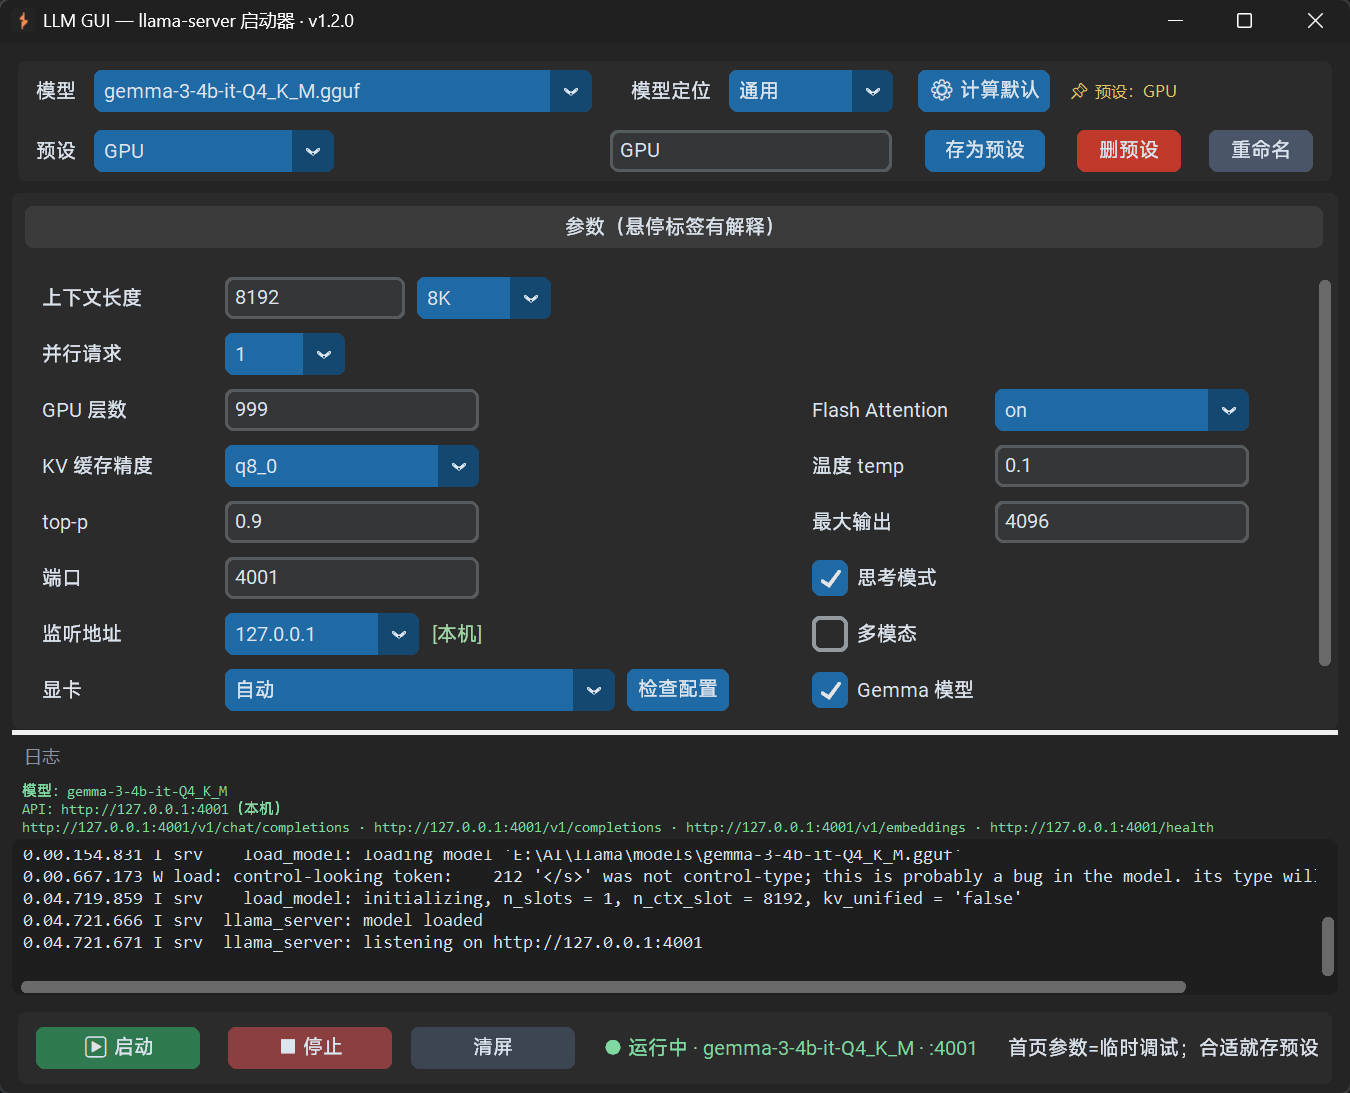
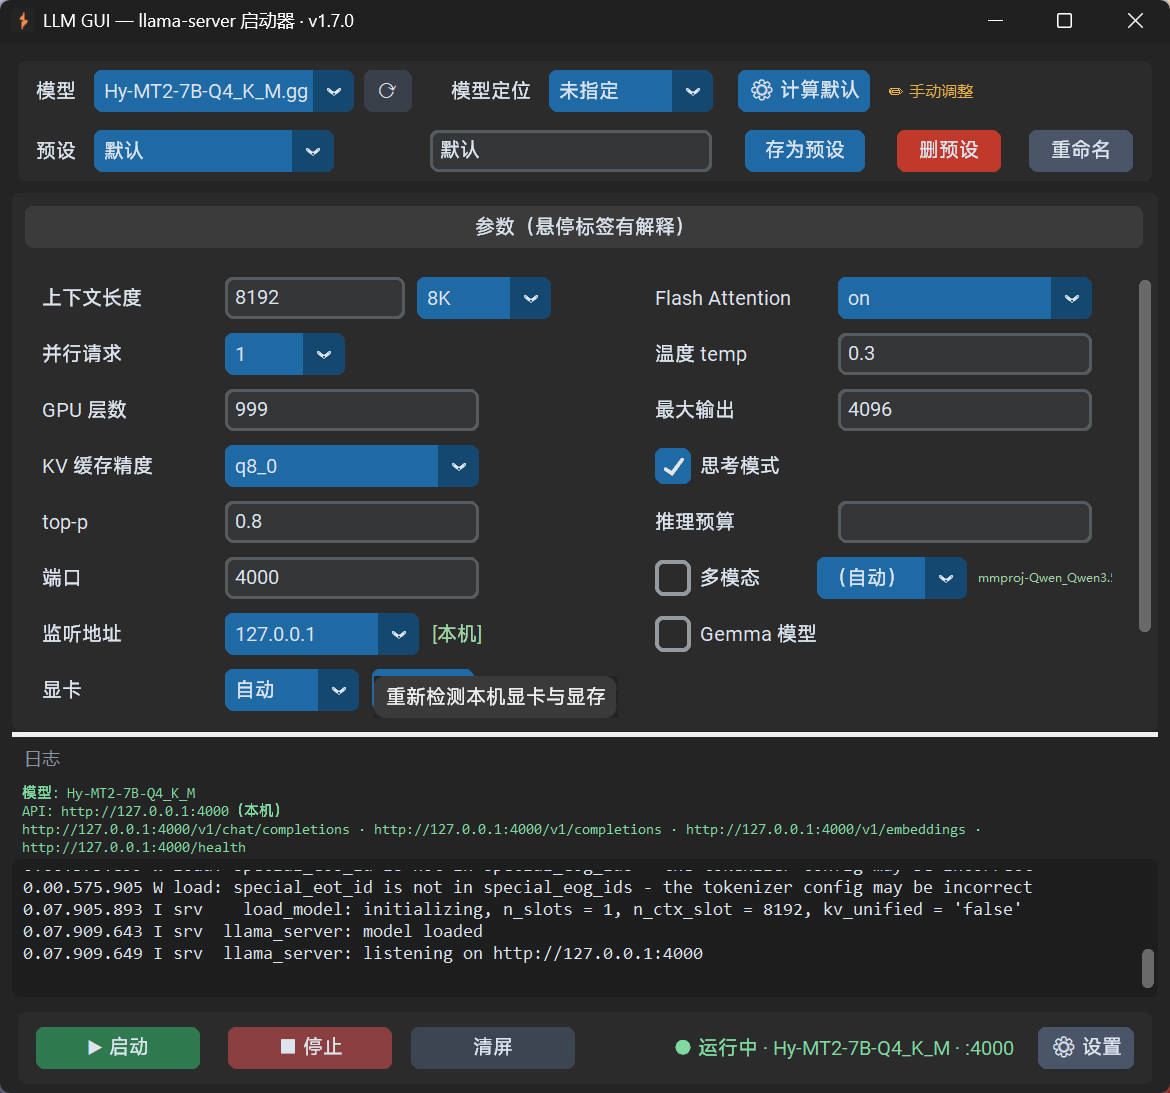
fix: CORS 允许源默认改回留空=不传（带值部分模型报错）
- compute_defaults 不再写入 cors='*'，回退留空 = 不传（llama 不启用 CORS）
- presets_template 同步；README 中英 changelog 修正
- 截图更新（screenshot.jpg 覆盖新界面）

diff --git a/llm_gui.py b/llm_gui.py
@@ -568,7 +568,7 @@ class App(ctk.CTk):
         # CORS 允许源（--cors）：浏览器跨域访问 API 的来源白名单
         lab = ctk.CTkLabel(pf, text='CORS 允许源', anchor='w', width=110)
         lab.grid(row=base + 3, column=0, padx=(14, 6), pady=5, sticky='w')
-        ToolTip(lab, '浏览器跨域访问 API 时校验的来源（--cors）。默认 * = 允许任意来源；也可写具体来源，多个用逗号分隔，如 http://localhost:3000,http://localhost:5173。留空 = 不传（llama 不启用 CORS）。')
+        ToolTip(lab, '浏览器跨域访问 API 时校验的来源（--cors）。*=允许任意来源；也可写具体来源，多个用逗号分隔，如 http://localhost:3000,http://localhost:5173。留空 = 不传（llama 不启用 CORS）。')
         self.w_cors = ctk.CTkEntry(pf, width=220, placeholder_text='* 或 http://localhost:3000')
         self.w_cors.grid(row=base + 3, column=1, padx=(6, 14), pady=5, sticky='w')
 
@@ -872,7 +872,7 @@ class App(ctk.CTk):
                 'temp': cat['temp'], 'top_p': cat['top_p'], 'n_predict': cat['n_predict'],
                 'parallel': 1, 'port': port, 'host': '127.0.0.1',
                 'gpu': '自动', 'n_batch': '', 'thinking': True, 'gemma': self.is_gemma(model),
-                'mm': False, 'cors': '*'}
+                'mm': False, 'cors': ''}
 
     def _poll_q(self):
         # 主线程轮询工作线程结果（tkinter 的 after 不能从子线程调）
@@ -1048,7 +1048,7 @@ class App(ctk.CTk):
             else:
                 set_entry(w, v)
         set_entry(self.w_n_batch, p.get('n_batch'))
-        set_entry(self.w_cors, p.get('cors') if p.get('cors') is not None else '*')   # CORS 缺省=*；显式留空=不传
+        set_entry(self.w_cors, p.get('cors'))   # CORS 缺省=留空=不传
         set_entry(self.w_reasoning_budget, p.get('reasoning_budget'))
         if p.get('thinking', True):
             self.think_chk.select()

diff --git a/docs/en/README.md b/docs/en/README.md
@@ -68,7 +68,7 @@ pyinstaller --onefile --windowed --name LLMGUI --icon=app.ico --collect-all cust
 - v1.7.0 (2026-08-17) New + changed + fix + polish:
   - New: a default-port setting in Settings (blank = llama's 8080); clicking "compute defaults" with no preset no longer overwrites the port — it keeps your current value, falling back to the default port when unset
   - New: Settings → Model list now shows every .gguf in models/ including mmproj projector files (marked at the end of the row and counted in the total); the model dropdown still won't treat mmproj files as selectable models
-  - Changed: the CORS allow-origin parameter now defaults to `*` (allow any origin); leaving it blank still means "not passed"
+  - Changed: the CORS allow-origin parameter stays blank by default (= not passed, llama does not enable CORS); fill in `*` to allow any origin, or list specific origins comma-separated
   - Polish: Settings layout — the "保存" button now sits on the same row as the "默认端口（全局）" field (no more over-long port box); the dialog height auto-fits its content, removing the large blank area at the bottom
   - Fix: the batch-delete confirmation dialog is now topmost and a singleton — clicking "删除选中" repeatedly no longer stacks multiple confirm windows
   - New: an "反选" (invert selection) button next to "全选" in the batch preset manager's bottom bar — toggles every selection with one click

diff --git a/README.md b/README.md
@@ -70,7 +70,7 @@ pyinstaller --onefile --windowed --name LLMGUI --icon=app.ico --collect-all cust
 - v1.7.0（2026-08-17）新增 + 修改 + 修复 + 优化：
   - 新增：设置 → 默认端口（全局）——留空用 llama 默认 8080；无预设点「计算默认」不再覆盖端口（保留当前输入，未设则用默认端口兜底）
   - 新增：设置 → 模型清单 现列出 models/ 下所有 .gguf 文件（含 mmproj 多模态投影文件，行尾标注并计入总占用）；模型下拉仍不把 mmproj 当作可选模型
-  - 修改：参数「CORS 允许源」默认 `*`（允许任意来源）；留空仍 = 不传
+  - 修改：参数「CORS 允许源」默认留空 = 不传（llama 不启用 CORS）；填 `*` 允许任意来源，或写具体来源（多个逗号分隔）
   - 优化：设置页布局——「保存」并入「默认端口（全局）」同行（端口框不再过长）；窗口高度按内容自适应，消除底部大面积留白
   - 修复：批量删除预设的二次确认弹窗改为置顶 + 单例——连点「删除选中」不再叠出多个确认窗（确认窗不遮挡、好找）
   - 新增：批量管理预设底部按钮栏加「反选」——位于「全选」右侧，一键反转所有勾选状态
